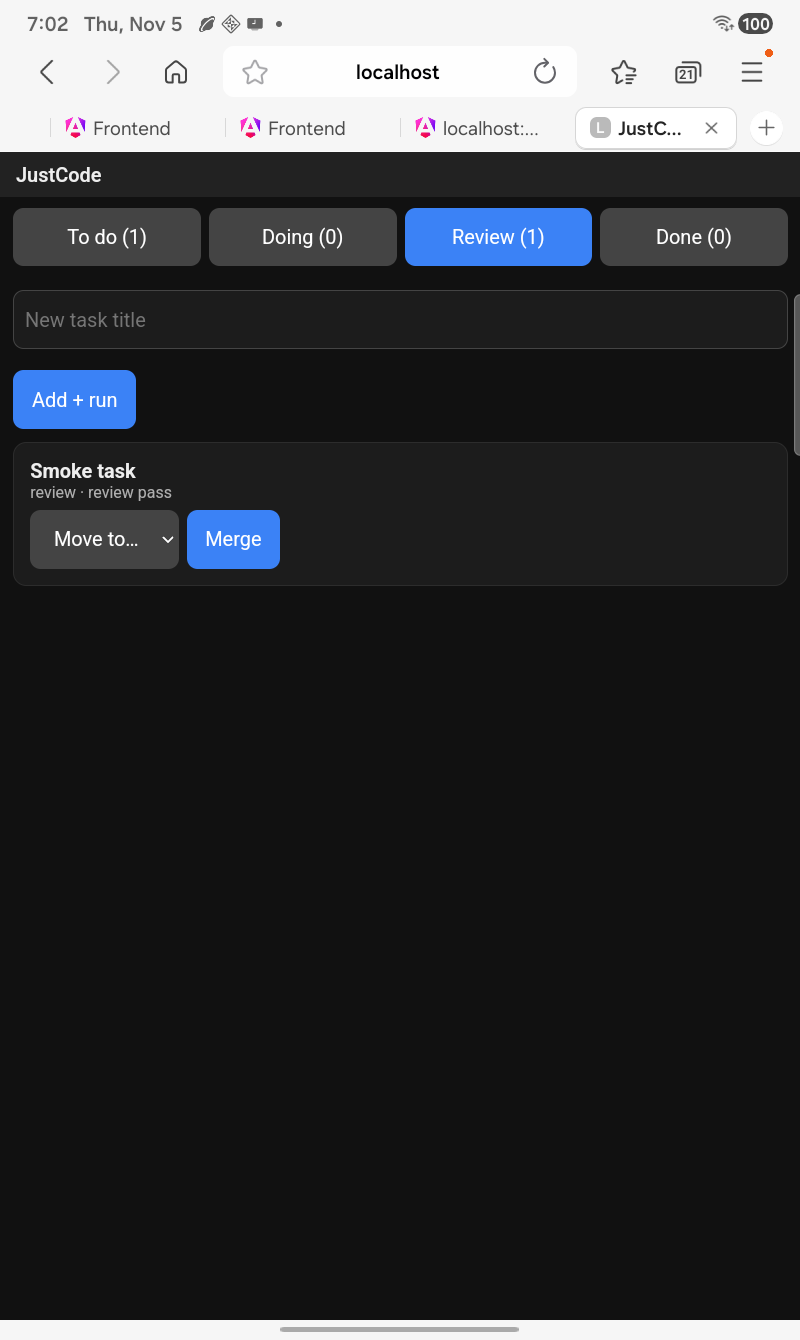
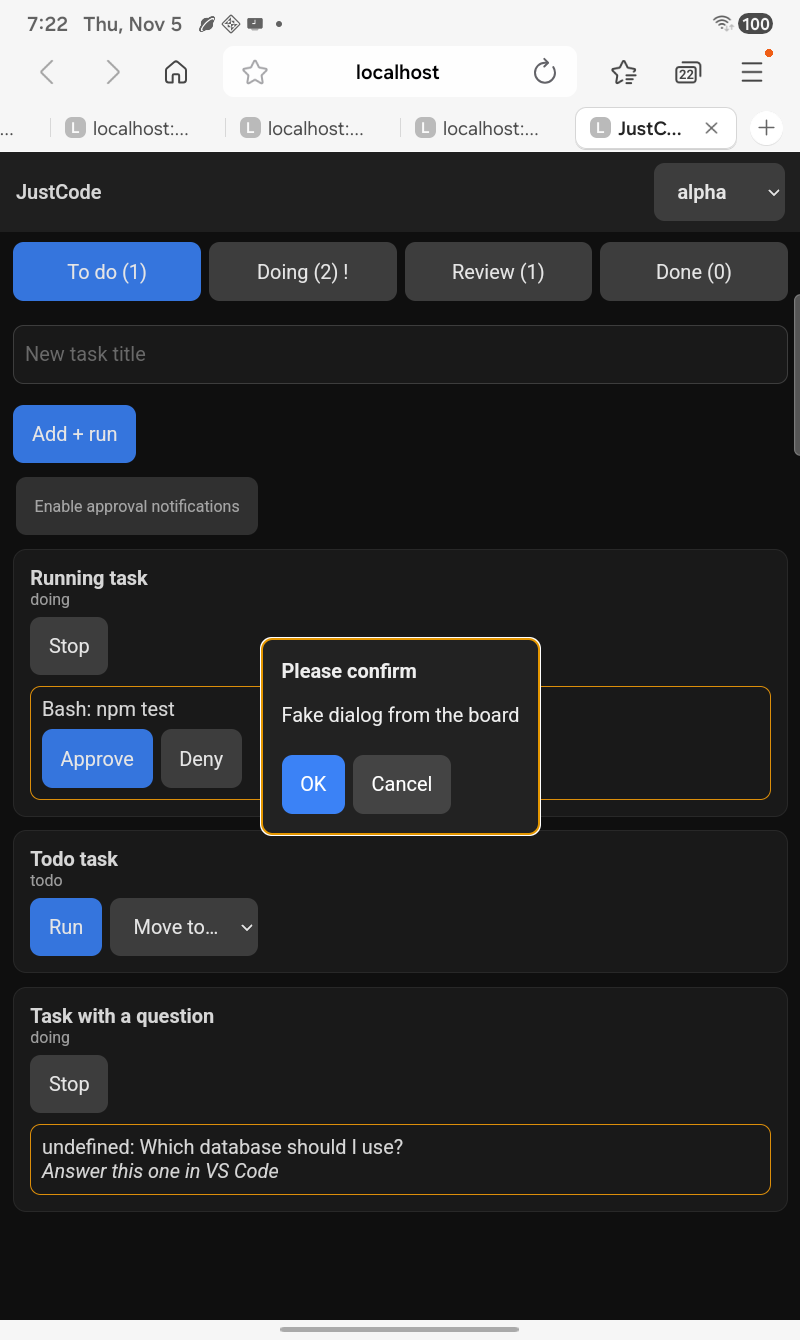
Capture tablet baseline and write action test checklist

diff --git a/scripts/fake-phone-backend.js b/scripts/fake-phone-backend.js
@@ -15,7 +15,7 @@ let tasks=[
 ];
 // a dialog event so /api/events has something to show (resolved/ignored by the phone page as it likes)
 hub.ask({title:'Please confirm',text:'Fake dialog from the board',buttons:['OK']}).catch(()=>{});
-startPhoneServer(7878,{token:process.env.TOK||'tok',state:()=>({projects,current,tasks}),events:n=>hub.events(n),
+startPhoneServer(+(process.env.PORT||7878),{token:process.env.TOK||'tok',state:()=>({projects,current,tasks}),events:n=>hub.events(n),
  board:async m=>{console.log('board',m.type,m.remote);
   if(m.type==='dialogReply')return void hub.reply(m);
   if(m.type==='merge'){const r=await hub.ask({title:'Please confirm',text:'Merge "Review task" into main?',buttons:['Merge']});console.log('merge answer',r);if(r?.button==='Merge'){const t=find('t-review');if(t){t.status='done';t.canMerge=false}}}},

diff --git a/docs/adb-smoke.md b/docs/adb-smoke.md
@@ -68,3 +68,25 @@ Failures found:
 - Layout: no overflow or small tap targets seen (buttons 44px+); no change needed. Viewport is ~600 CSS px wide, so the phone breakpoint does not apply.
 
 UNVERIFIED: native *Move to…* picker (not visible to adb); project picker (the fake backend returns no projects); real-extension run (needs a manual pairing code); landscape orientation.
+
+## Tablet action checklist (SM-X133, 800x1340)
+Baseline shots (re-captured 2026-11-05 with `PORT=7899 OUT=docs/smoke/tablet scripts/adb-smoke.sh`, fake backend) are in `docs/smoke/tablet/`: `01-open` (open), `07-tab-todo|doing|review|done` (each tab), `03-permission` (cards with asks: Approve/Deny permission and a question card, plus the project select, notification button and dialog). The script reads the screen size from `adb shell wm size` and scales its fallback taps. `PORT` env overrides 7878 (use it when another backend holds the port).
+Run each action against the fake backend, wait ~3s, screencap, compare to Expected.
+
+| Action | How | Expected |
+|---|---|---|
+| Run | Todo card, tap *Run* | Card leaves To do, appears under Doing with a *Stop* button |
+| Stop | Doing card, tap *Stop* | Asks cleared, card returns to To do (fake) / stops running |
+| Approve | Permission card, tap *Approve* | Ask disappears; task moves to Review with Merge button |
+| Deny | Permission card, tap *Deny* | Ask disappears; task returns to To do, not busy |
+| Answer | Question card | Shows "Answer this one in VS Code" (phone cannot answer questions); only allow/deny accepted by server |
+| Move select | Todo card, *Move to…* -> doing/review | Card moves to that tab, counts update (native picker not visible to adb: verify by hand) |
+| Long-press drag | `adb shell input touchscreen draganddrop 300 545 176 479 1500` onto *Doing* tab | Card moves, tab outlined while hovered, no text selection toolbar; drop on *Done* shows red refusal message, no alert |
+| Project picker | Header select (alpha/beta/gamma), pick another | List reloads for that project |
+| Tabs | Tap To do / Doing / Review / Done | Only that column's cards show; counts in labels match |
+| Add task | Type title, tap *Add + run* | New card under Doing (To do if added without run); empty title is rejected |
+| Dialog reply | Board dialog ("Please confirm") tap *OK* / *Cancel* | Dialog closes; the board receives the chosen button |
+| Merge | Review card, *Merge*, then *Merge* in the confirm dialog | Card moves to Done, Done count +1; Cancel leaves it in Review |
+| Notification button | Tap *Enable approval notifications* | Browser permission prompt; on grant the button hides; new asks raise a notification |
+
+Seen in the baseline: the question card reads "undefined: Which database should I use?" because the fake ask has no `tool`; check whether the page should omit the prefix.
